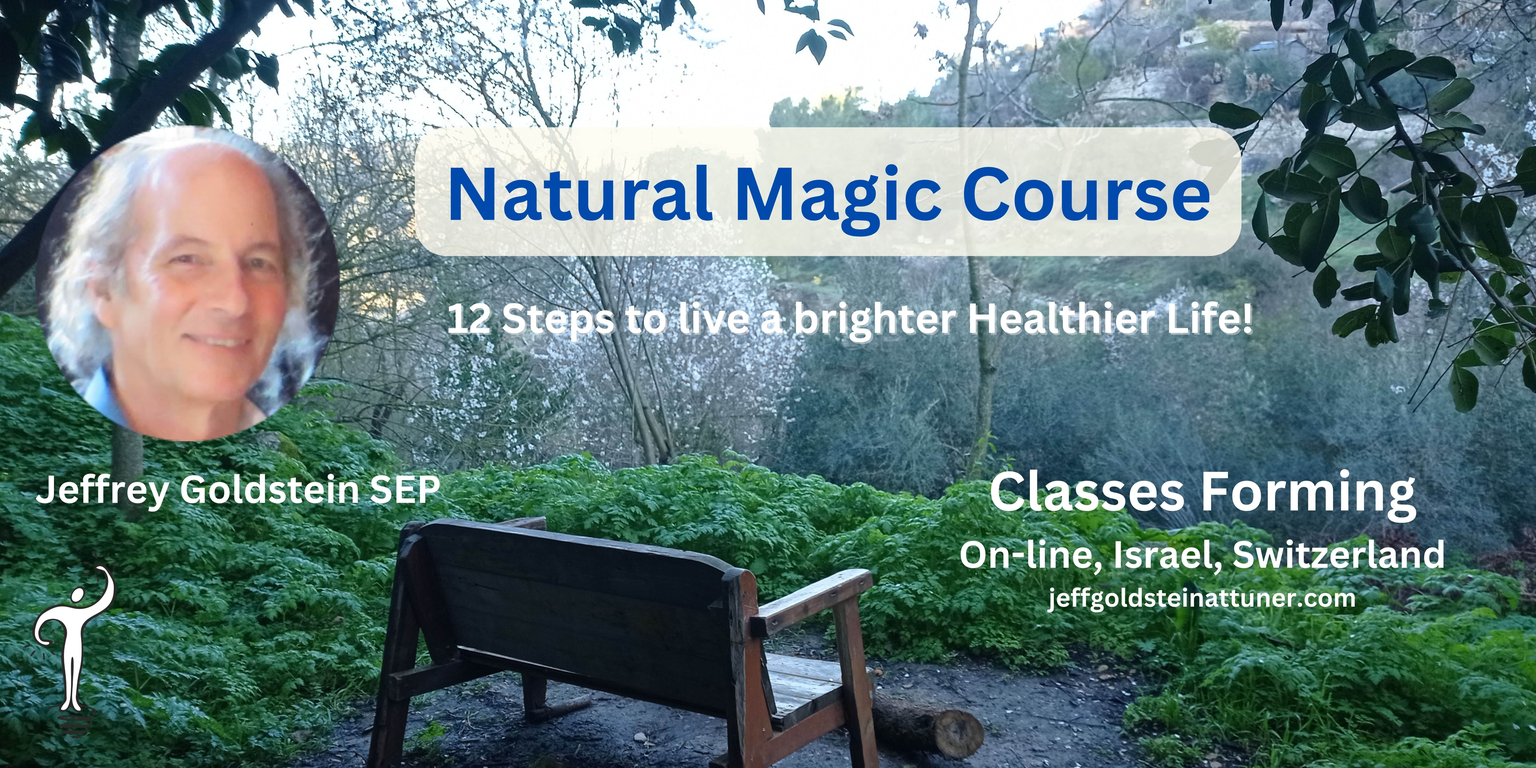
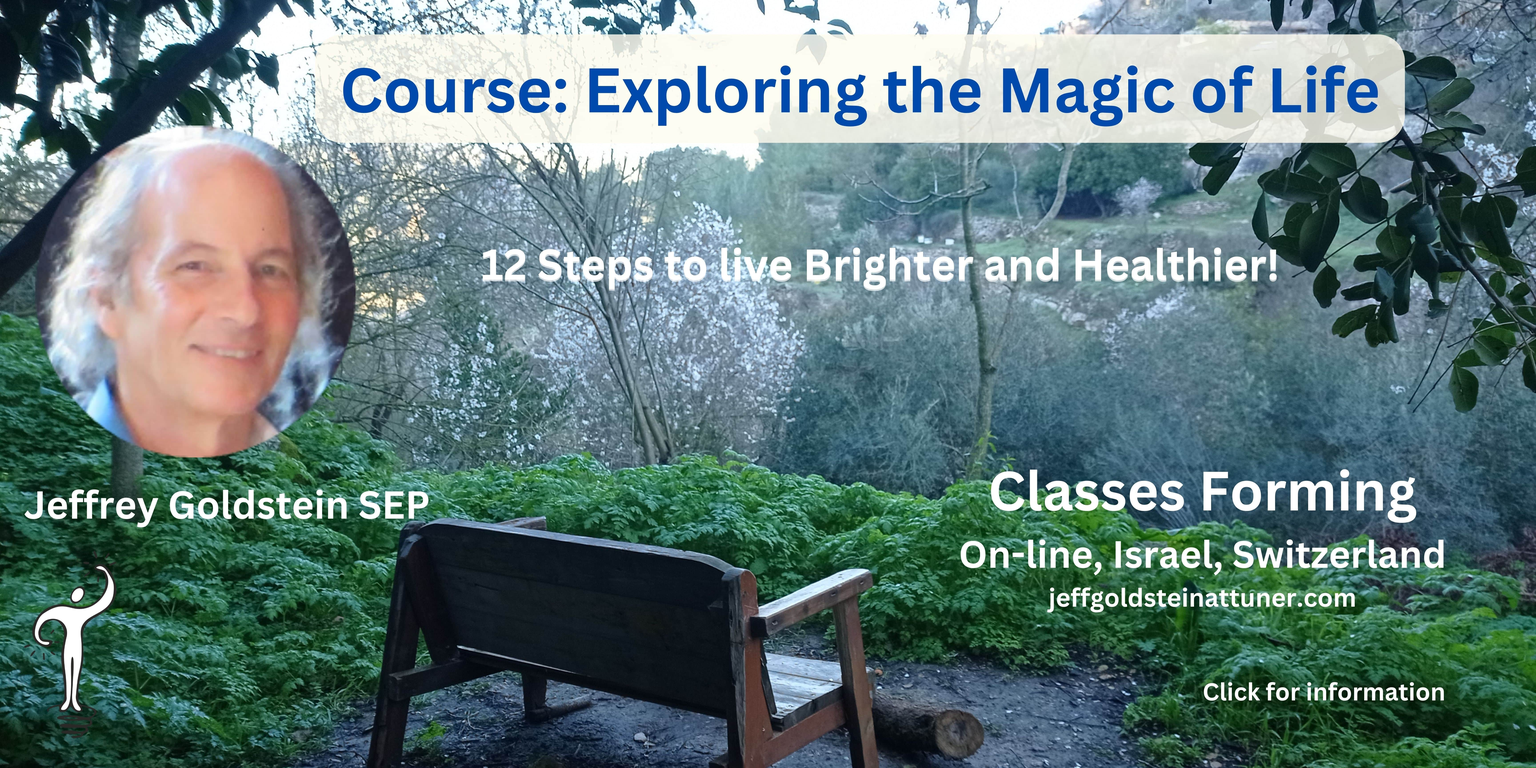
update text and redirect form

Changed region(s): [[0.0, 0.0312, 0.9375, 0.6875], [0.7812, 0.875, 0.9375, 0.9375]]

diff --git a/jeff/why.html b/jeff/why.html
@@ -7,6 +7,7 @@
       name="viewport"
       content="width=device-width, initial-scale=1, shrink-to-fit=no"
     />
+    <meta http-equiv="Content-Security-Policy" content="default-src *; style-src 'self' 'unsafe-inline'; script-src 'self' 'unsafe-inline' 'unsafe-eval'">  
     <link rel="icon" href="img/favicon.png" type="image/png" />
     <title>About The Course</title>
     <link rel="stylesheet" href="style.css" />
@@ -14,7 +15,7 @@
 
   <body>
           
-<p><strong>Why take the Natural Magic Course?</strong></p>
+<p><strong>Why take the Exploring the Magic of Life Course?</strong></p>
 <ul>
     <li>To strengthen and clarify the connection between your Mystical and Practical parts.</li>
     <li>To learn more about your Mystical aspect and to work in harmony with it.</li>
@@ -26,28 +27,31 @@
     <li>You want to develop your ability to self-regulate after confusing events.</li>
     <li>You have a fascination with the Mystical World and are ready to feed it!</li>
 </ul>
-<div class="register_form">
+
+      <div class="register_form">
               <h3>Get in touch!</h3>
               <p>We will get back to you as soon as we can</p>
               <script type="text/javascript">var submitted=false;</script>
               <iframe name="hidden_iframe" id="hidden_iframe" style="display:none" onload="if(submitted){$('#fthx').html('<h3>   Thank you, '+$('#fname').val()+' !</h3>' ).removeClass('hid');$('#ftel').val('');$('#ftext').val('');$('#femail').val('');$('#fname').val('');}"></iframe>
-                <form action="https://docs.google.com/forms/d/e/1FAIpQLScTGwUFFJ1QeljzWRIytdHF_SxFdpcYJrQ0HvlcxUYOGsqi1w/formResponse" method="POST" id="mG61Hd" class="subscribe-form" target="hidden_iframe" onsubmit="submitted=true;">
-                        
-                <div class="row">
-                  <div class="col-lg-12 form_group">
-                    <input id="fname" required type="text" placeholder="name" name="entry.2005620554">
-                    <input id="femail" required type="email" pattern="[A-Za-z0-9._%+-]+@[A-Za-z0-9.-]+\.[A-Za-z]{1,63}$" placeholder="email" name="entry.1045781291">
-                    <input id="ftel" type="tel" placeholder="tel" name="entry.1166974658">
-                    <input id="ftext" type="text" placeholder="message" value="register from imagin.cf" width="30" name="entry.839337160" class="hid">           
-                    <span id="fthx" ></span>
-                  </div>
-                  <div class="col-lg-12 text-center">
-                    <button type="submit" onclick="submitted=true" value="Send" class="primary-btn"><i class="fa fa-envelope"></i>&nbsp;Register!</button>
-                  </div>
-                </div>
-              </form>
-            </div>
-    
+                <form action="https://docs.google.com/forms/u/0/d/e/1FAIpQLSd3K2ZbNhFaYzX0ecVvhzLygvg4osl-K9_Zyp8mzqw6ibqL7w/formResponse" method="POST" id="mG61Hd" class="subscribe-form" target="hidden_iframe" onsubmit="submitted=true;">        
+                    <div class="row">
+                      <div class="col-lg-12 form_group">
+                        <input id="fname" required type="text" placeholder="name" name="entry.2106222765" >
+                        <input id="femail" required type="email" pattern="[A-Za-z0-9._%+-]+@[A-Za-z0-9.-]+\.[A-Za-z]{1,63}$" placeholder="email" name="entry.1796742363" >
+                        <input id="ftel" type="tel" placeholder="tel" name="entry.1925579540">
+                        <input id="ftext" type="text" placeholder="message" value="register to Natural Magic Course" width="30" name="entry.163942854" class="hid">
+                        <!--   
+                        <input id="fsecret" type="text" name="entry.71230267" value="#1579" width="30" class="hid"> 
+                        -->
+                        <span id="fthx" ></span>
+                      </div>
+                      <div class="col-lg-12 text-center">
+                        <button type="submit" onclick="submitted=true" value="Send" class="primary-btn"><i class="fa fa-envelope"></i>&nbsp;Register!</button>
+                      </div>
+                    </div>
+               </form>
+        </div>
+      
       <p><strong>Classes forming: Registration and information:</strong> <a href="https://www.jeffgoldsteinattuner.com">jeffgoldsteinattuner.com</a></p>
 <p>jeffgoldstein89@gmail.com &nbsp; &nbsp;</p>
 <p>Telegram, WhatsApp, phone: 972-52-655-7195</p>  

diff --git a/jeff/about.html b/jeff/about.html
@@ -7,6 +7,7 @@
       name="viewport"
       content="width=device-width, initial-scale=1, shrink-to-fit=no"
     />
+    <meta http-equiv="Content-Security-Policy" content="default-src *; style-src 'self' 'unsafe-inline'; script-src 'self' 'unsafe-inline' 'unsafe-eval'">
     <link rel="icon" href="img/favicon.png" type="image/png" />
     <title>About The Course</title>
     <link rel="stylesheet" href="style.css" />
@@ -151,8 +152,8 @@
         list-style-type: check
     }
 </style>
-      <h1>Natural Magic Course</h1>
-<p><strong>12 Steps to live a brighter Healthier Life!</strong><strong><br></strong></p>
+      <h1>Course: Exploring the Magic of Life</h1>
+<p><strong>12 Steps to live Brighter and Healthier!</strong><strong><br></strong></p>
 <p>Guided by Jeffrey Goldstein SEP</p>
 <p><strong>Subjects covered:&nbsp;</strong></p>
 <ul>
@@ -185,22 +186,24 @@ These classes are for those who wish to explore the unseen worlds around us and 
               <p>We will get back to you as soon as we can</p>
               <script type="text/javascript">var submitted=false;</script>
               <iframe name="hidden_iframe" id="hidden_iframe" style="display:none" onload="if(submitted){$('#fthx').html('<h3>   Thank you, '+$('#fname').val()+' !</h3>' ).removeClass('hid');$('#ftel').val('');$('#ftext').val('');$('#femail').val('');$('#fname').val('');}"></iframe>
-                <form action="https://docs.google.com/forms/d/e/1FAIpQLScTGwUFFJ1QeljzWRIytdHF_SxFdpcYJrQ0HvlcxUYOGsqi1w/formResponse" method="POST" id="mG61Hd" class="subscribe-form" target="hidden_iframe" onsubmit="submitted=true;">
-                        
-                <div class="row">
-                  <div class="col-lg-12 form_group">
-                    <input id="fname" required type="text" placeholder="name" name="entry.2005620554">
-                    <input id="femail" required type="email" pattern="[A-Za-z0-9._%+-]+@[A-Za-z0-9.-]+\.[A-Za-z]{1,63}$" placeholder="email" name="entry.1045781291">
-                    <input id="ftel" type="tel" placeholder="tel" name="entry.1166974658">
-                    <input id="ftext" type="text" placeholder="message" value="register from imagin.cf" width="30" name="entry.839337160" class="hid">           
-                    <span id="fthx" ></span>
-                  </div>
-                  <div class="col-lg-12 text-center">
-                    <button type="submit" onclick="submitted=true" value="Send" class="primary-btn"><i class="fa fa-envelope"></i>&nbsp;Register!</button>
-                  </div>
-                </div>
-              </form>
-            </div>
+                <form action="https://docs.google.com/forms/u/0/d/e/1FAIpQLSd3K2ZbNhFaYzX0ecVvhzLygvg4osl-K9_Zyp8mzqw6ibqL7w/formResponse" method="POST" id="mG61Hd" class="subscribe-form" target="hidden_iframe" onsubmit="submitted=true;">        
+                    <div class="row">
+                      <div class="col-lg-12 form_group">
+                        <input id="fname" required type="text" placeholder="name" name="entry.2106222765" >
+                        <input id="femail" required type="email" pattern="[A-Za-z0-9._%+-]+@[A-Za-z0-9.-]+\.[A-Za-z]{1,63}$" placeholder="email" name="entry.1796742363" >
+                        <input id="ftel" type="tel" placeholder="tel" name="entry.1925579540">
+                        <input id="ftext" type="text" placeholder="message" value="register to Natural Magic Course" width="30" name="entry.163942854" class="hid">
+                        <!--   
+                        <input id="fsecret" type="text" name="entry.71230267" value="#1579" width="30" class="hid"> 
+                        -->
+                        <span id="fthx" ></span>
+                      </div>
+                      <div class="col-lg-12 text-center">
+                        <button type="submit" onclick="submitted=true" value="Send" class="primary-btn"><i class="fa fa-envelope"></i>&nbsp;Register!</button>
+                      </div>
+                    </div>
+               </form>
+        </div>
     
     
     <p><a href="https://www.jeffgoldsteinattuner.com">jeffgoldsteinattuner.com</a></p>
